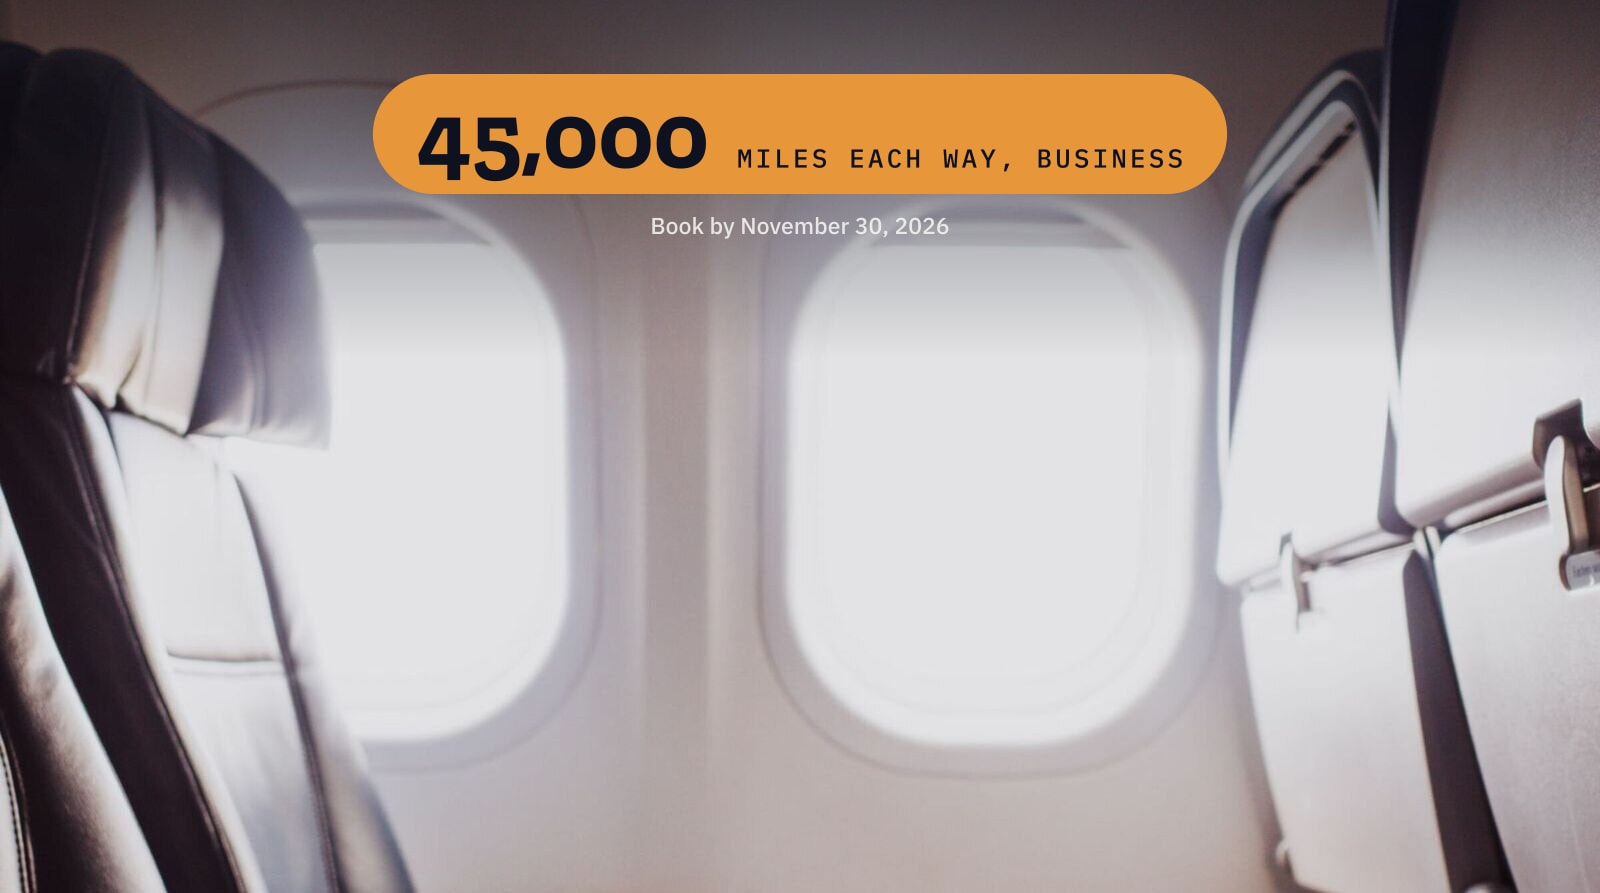
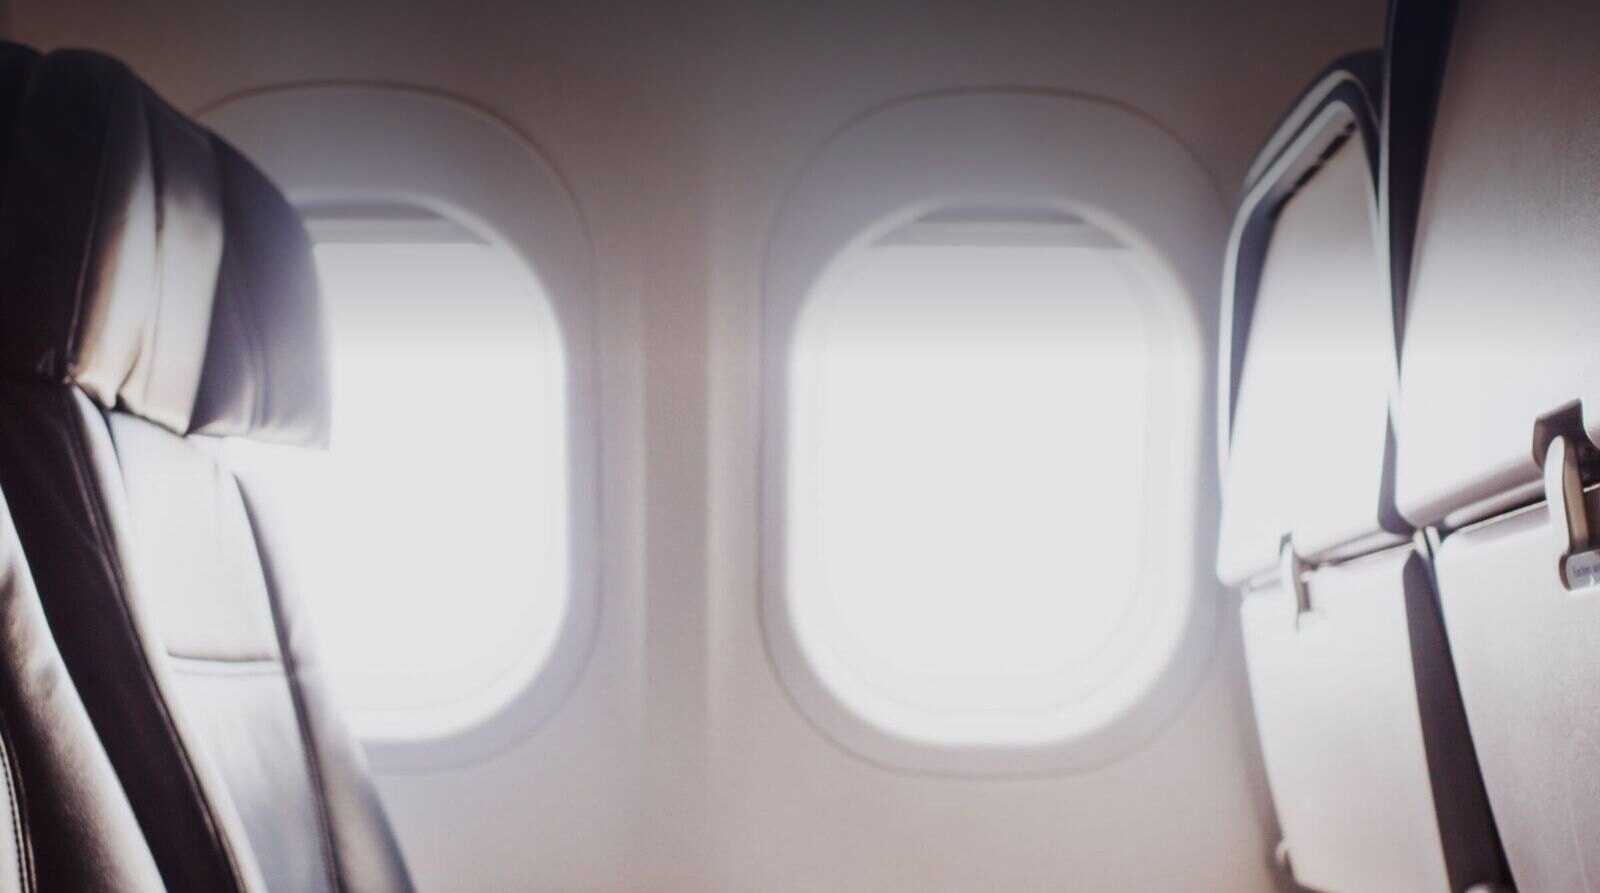
fix(blog): mark the Flying Blue promo post as ended, restore its cover
Flying Blue's November Promo Rewards edition and Capital One's 20%
bonus both ended on 2026-11-30. Unpublishing would throw away the URL
and its search history, and the post's real substance (the surcharge,
the Light fare rules, the transfer trap) applies to every monthly
edition. So the post stays up with a one-line update at the top saying
the offer ended. Excerpt and meta description move to the past tense
so search snippets stop advertising a dead price.

The cover carried a stamped "45,000 / Book by November 30, 2026"
banner. It goes back to the committed unstamped base image, and
COVER_ALT now describes that image. Publishing needs RESEED_COVERS=1.

Changed region(s): [[0.2188, 0.0605, 0.7812, 0.2721]]

diff --git a/src/scripts/assets/blog/de/flying-blue-promo-rewards-business-new-york.md b/src/scripts/assets/blog/de/flying-blue-promo-rewards-business-new-york.md
@@ -1,11 +1,13 @@
 SLUG: flying-blue-promo-rewards-business-new-york
 CATEGORY: deals
 TITLE: Air France Business für 45.000 Meilen. Der Haken ist das Bargeld.
-EXCERPT: Flying Blue verkauft Europa nach New York in Business für 45.000 Meilen pro Strecke, mit dem Capital-One-Bonus für 37.500. Zuschlag und Tarifregeln entscheiden, ob sich das lohnt.
+EXCERPT: Flying Blues November-Aktion bot Business von Europa nach New York für 45.000 Meilen pro Strecke. Sie endete am 30. November 2026, doch die Lehren zu Zuschlag und Tarifregeln gelten für jede Ausgabe.
 META_TITLE: Flying Blue Promo: Business nach New York
-META_DESCRIPTION: Air France Business zwischen Europa und New York kostet 45.000 Flying-Blue-Meilen pro Strecke, mit dem 20-Prozent-Bonus im November 37.500 Capital-One-Meilen.
-COVER_ALT: Fensterplatz im Flugzeug mit aufgedrucktem Aktionspreis: 45.000 Meilen pro Strecke in Business, Buchung bis 30. November 2026
+META_DESCRIPTION: Flying Blues November-Aktion 2026 bot Air France Business nach New York für 45.000 Meilen. Sie ist vorbei; das sollten Sie vor der nächsten Ausgabe prüfen.
+COVER_ALT: Zwei Flugzeugfenster voller Tageslicht, links ein Sitz, rechts Rückenlehnen mit Klapptischen
 ---BODY---
+> Update vom 1. Dezember 2026: Diese Aktion und der Capital-One-Bonus sind am 30. November ausgelaufen. Flying Blue veröffentlicht zu Beginn jedes Monats neue Promo Rewards, und die Punkte zu Zuschlag, Tarifregeln und Übertragung unten gelten für jede Ausgabe.
+
 
 **Air France verkauft Business Class zwischen Europa und New York für 45.000 Flying-Blue-Meilen pro Strecke, und der 20-Prozent-Transferbonus von Capital One senkt den Preis auf 37.500 Capital-One-Meilen.** Beides läuft bis zum 30. November 2026, der Reisezeitraum reicht bis zum 30. April 2027. Der Platz ist echt und der Rabatt ist echt. Entschieden wird die Sache beim Barzuschlag, bei den Tarifregeln und beim Zeitpunkt des Transfers.
 

diff --git a/src/scripts/assets/blog/flying-blue-promo-rewards-business-new-york.md b/src/scripts/assets/blog/flying-blue-promo-rewards-business-new-york.md
@@ -1,11 +1,13 @@
 SLUG: flying-blue-promo-rewards-business-new-york
 CATEGORY: deals
 TITLE: Air France Business for 45,000 Miles. The Cash Is the Catch.
-EXCERPT: Flying Blue is selling Europe to New York in business for 45,000 miles each way, and Capital One's November bonus makes that 37,500. The surcharge and the fare rules decide whether it is worth it.
+EXCERPT: Flying Blue's November promo put Europe to New York in business at 45,000 miles each way. It ended November 30, 2026; the surcharge and fare-rule lessons apply to every monthly edition.
 META_TITLE: Flying Blue Promo: Business to New York
-META_DESCRIPTION: Air France business between Europe and New York is 45,000 Flying Blue miles each way, or 37,500 Capital One miles with the 20 percent November bonus.
-COVER_ALT: Airline window seat with the promo price stamped over it: 45,000 miles each way in business, book by November 30, 2026
+META_DESCRIPTION: Flying Blue's November 2026 promo priced Air France business to New York at 45,000 miles. It has ended; here is what to check before the next edition.
+COVER_ALT: Two aircraft windows bright with daylight, a seat on the left and seat backs with tray tables on the right
 ---BODY---
+> Update, December 1, 2026: this promo and the Capital One bonus both ended on November 30. Flying Blue publishes new Promo Rewards at the start of every month, and the surcharge, fare-rule and transfer points below apply to each edition.
+
 
 **Air France is selling business class between Europe and New York for 45,000 Flying Blue miles each way, and Capital One's 20 percent transfer bonus brings the cost down to 37,500 Capital One miles.** Both run until November 30, 2026, and the travel window stretches to April 30, 2027. The seat is real and the discount is real. The cash surcharge, the fare rules and the transfer timing are where this one is won or lost.
 
